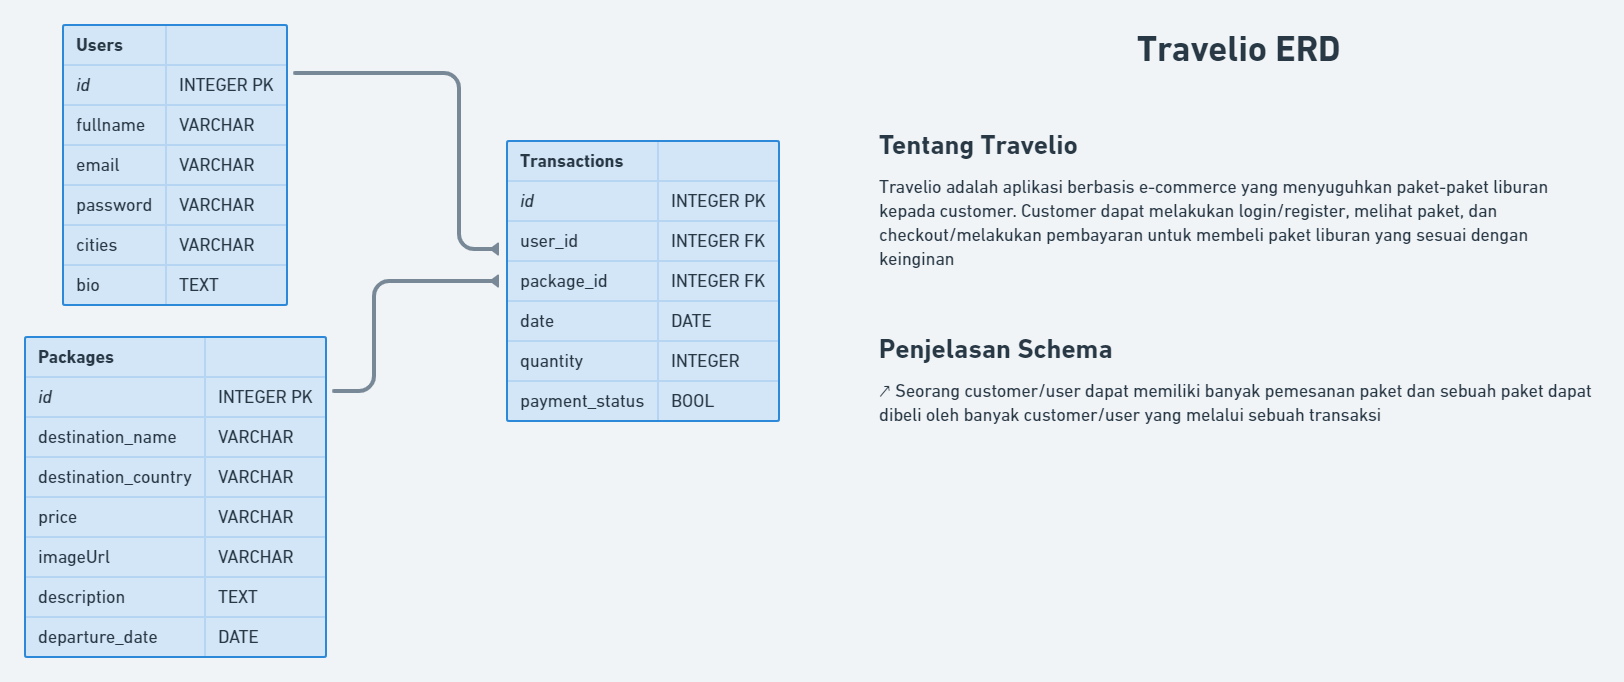
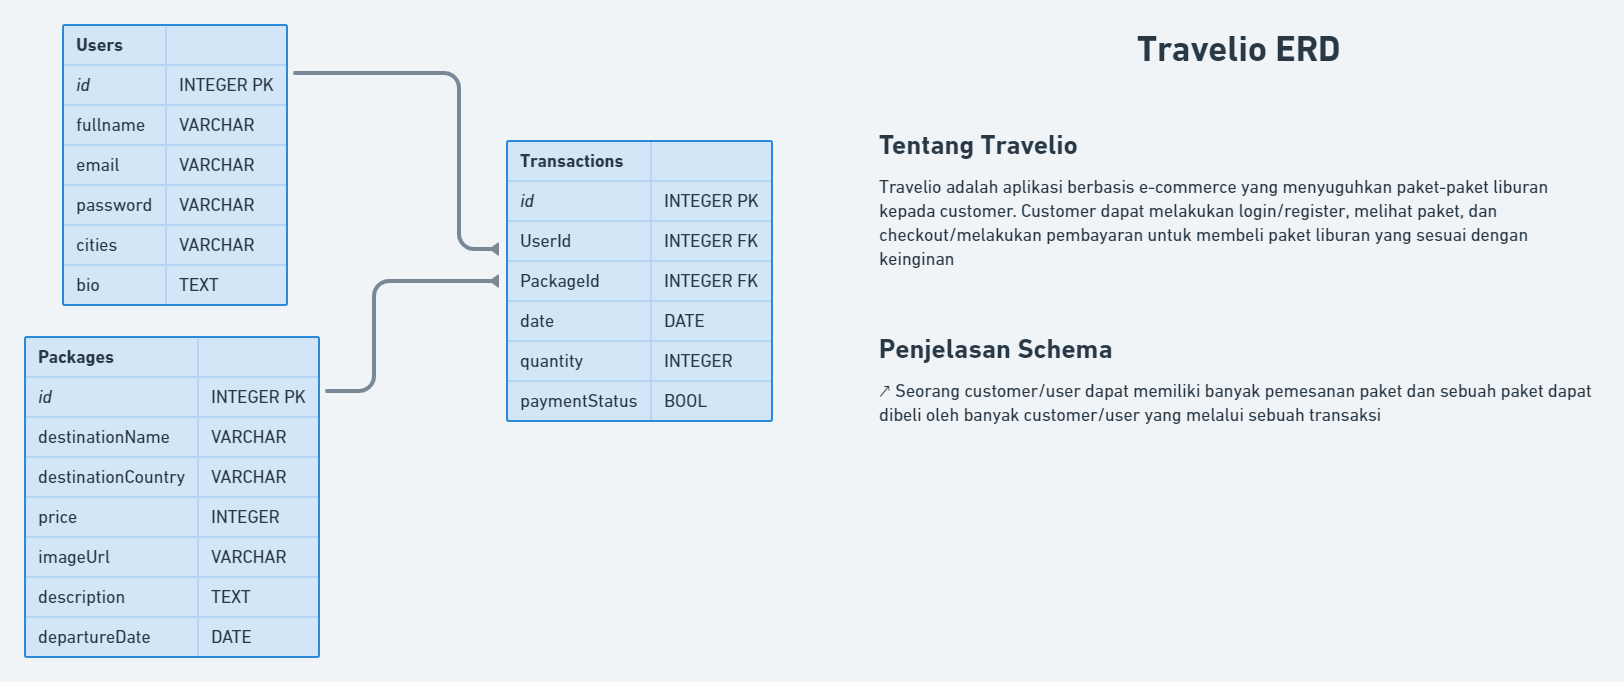
Added some seed data for package, also add column for imageThumbnail, imageUrl, rating, and number of reviewers. Some minor fix here and there

diff --git a/models/package.js b/models/package.js
@@ -44,12 +44,21 @@ module.exports = (sequelize, DataTypes) => {
           },
         },
       },
-      imageUrl: {
-        type: DataTypes.STRING,
+      imageThumbnail: {
+        type: DataTypes.TEXT,
         allowNull: false,
         validate: {
           notNull: {
-            msg: "Package Image URL is required",
+            msg: "Package Image Thumbnail is required",
+          },
+        },
+      },
+      imageUrls: {
+        type: DataTypes.ARRAY(DataTypes.TEXT),
+        allowNull: false,
+        validate: {
+          notNull: {
+            msg: "Package Image URLs is required",
           },
         },
       },
@@ -68,6 +77,24 @@ module.exports = (sequelize, DataTypes) => {
         validate: {
           notNull: {
             msg: "Package departure date is required",
+          },
+        },
+      },
+      rating: {
+        type: DataTypes.FLOAT,
+        allowNull: false,
+        validate: {
+          notNull: {
+            msg: "Package rating is required",
+          },
+        },
+      },
+      reviewers: {
+        type: DataTypes.DATE,
+        allowNull: false,
+        validate: {
+          notNull: {
+            msg: "Package number of reviewers is required",
           },
         },
       },

diff --git a/seeders/20220416171442-seeding-packages-file.js b/seeders/20220416171442-seeding-packages-file.js
@@ -1,0 +1,31 @@
+"use strict";
+
+module.exports = {
+  async up(queryInterface, Sequelize) {
+    /**
+     * Add seed commands here.
+     *
+     * Example:
+     * await queryInterface.bulkInsert('People', [{
+     *   name: 'John Doe',
+     *   isBetaMember: false
+     * }], {});
+     */
+    const packageData = require("../db/packages.json").map((travelPackage) => ({
+      ...travelPackage,
+      createdAt: new Date(),
+      updatedAt: new Date(),
+    }));
+    await queryInterface.bulkInsert("Packages", packageData);
+  },
+
+  async down(queryInterface, Sequelize) {
+    /**
+     * Add commands to revert seed here.
+     *
+     * Example:
+     * await queryInterface.bulkDelete('People', null, {});
+     */
+    await queryInterface.bulkDelete("Packages", null, {});
+  },
+};

diff --git a/migrations/20220416161935-create-package.js b/migrations/20220416161935-create-package.js
@@ -20,8 +20,12 @@ module.exports = {
         type: Sequelize.INTEGER,
         allowNull: false,
       },
-      imageUrl: {
-        type: Sequelize.STRING,
+      imageThumbnail: {
+        type: Sequelize.TEXT,
+        allowNull: false,
+      },
+      imageUrls: {
+        type: Sequelize.ARRAY(Sequelize.TEXT),
         allowNull: false,
       },
       description: {
@@ -30,6 +34,14 @@ module.exports = {
       },
       departureDate: {
         type: Sequelize.DATE,
+        allowNull: false,
+      },
+      rating: {
+        type: Sequelize.FLOAT,
+        allowNull: false,
+      },
+      reviewers: {
+        type: Sequelize.INTEGER,
         allowNull: false,
       },
       createdAt: {

diff --git a/seeders/20220416170911-seeding-users-file.js b/seeders/20220416170911-seeding-users-file.js
@@ -1,0 +1,24 @@
+'use strict';
+
+module.exports = {
+  async up (queryInterface, Sequelize) {
+    /**
+     * Add seed commands here.
+     *
+     * Example:
+     * await queryInterface.bulkInsert('People', [{
+     *   name: 'John Doe',
+     *   isBetaMember: false
+     * }], {});
+    */
+  },
+
+  async down (queryInterface, Sequelize) {
+    /**
+     * Add commands to revert seed here.
+     *
+     * Example:
+     * await queryInterface.bulkDelete('People', null, {});
+     */
+  }
+};
